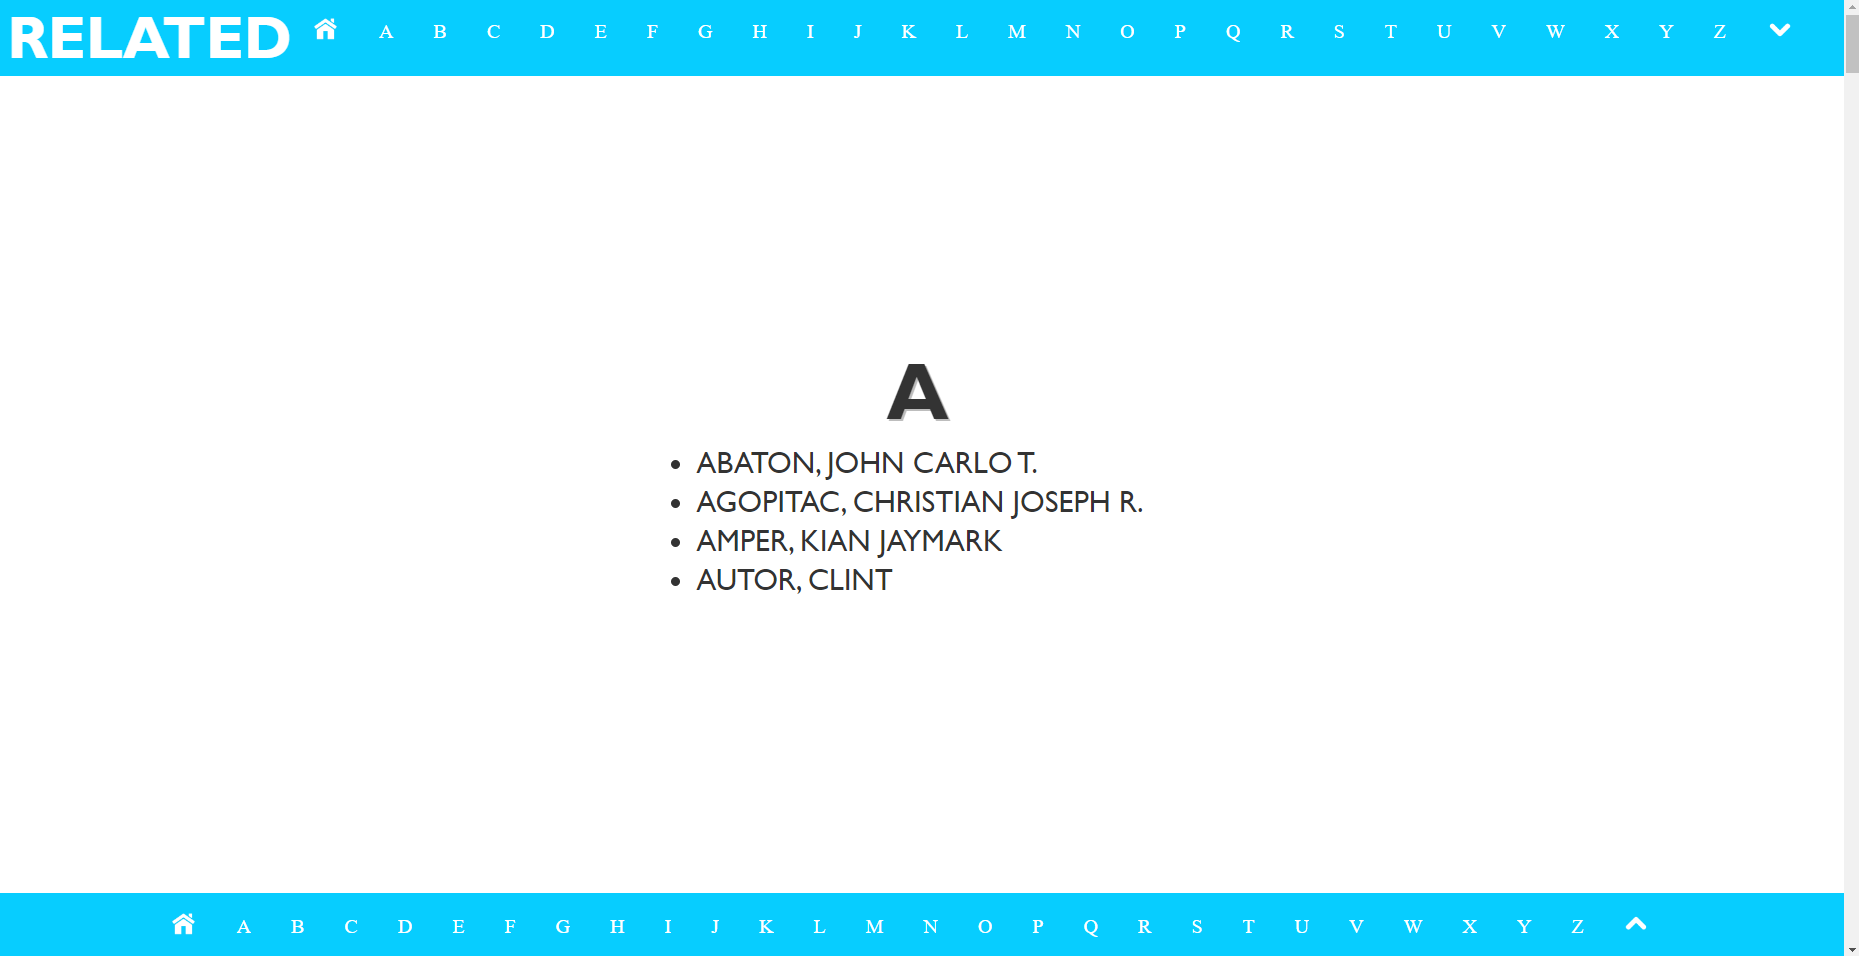
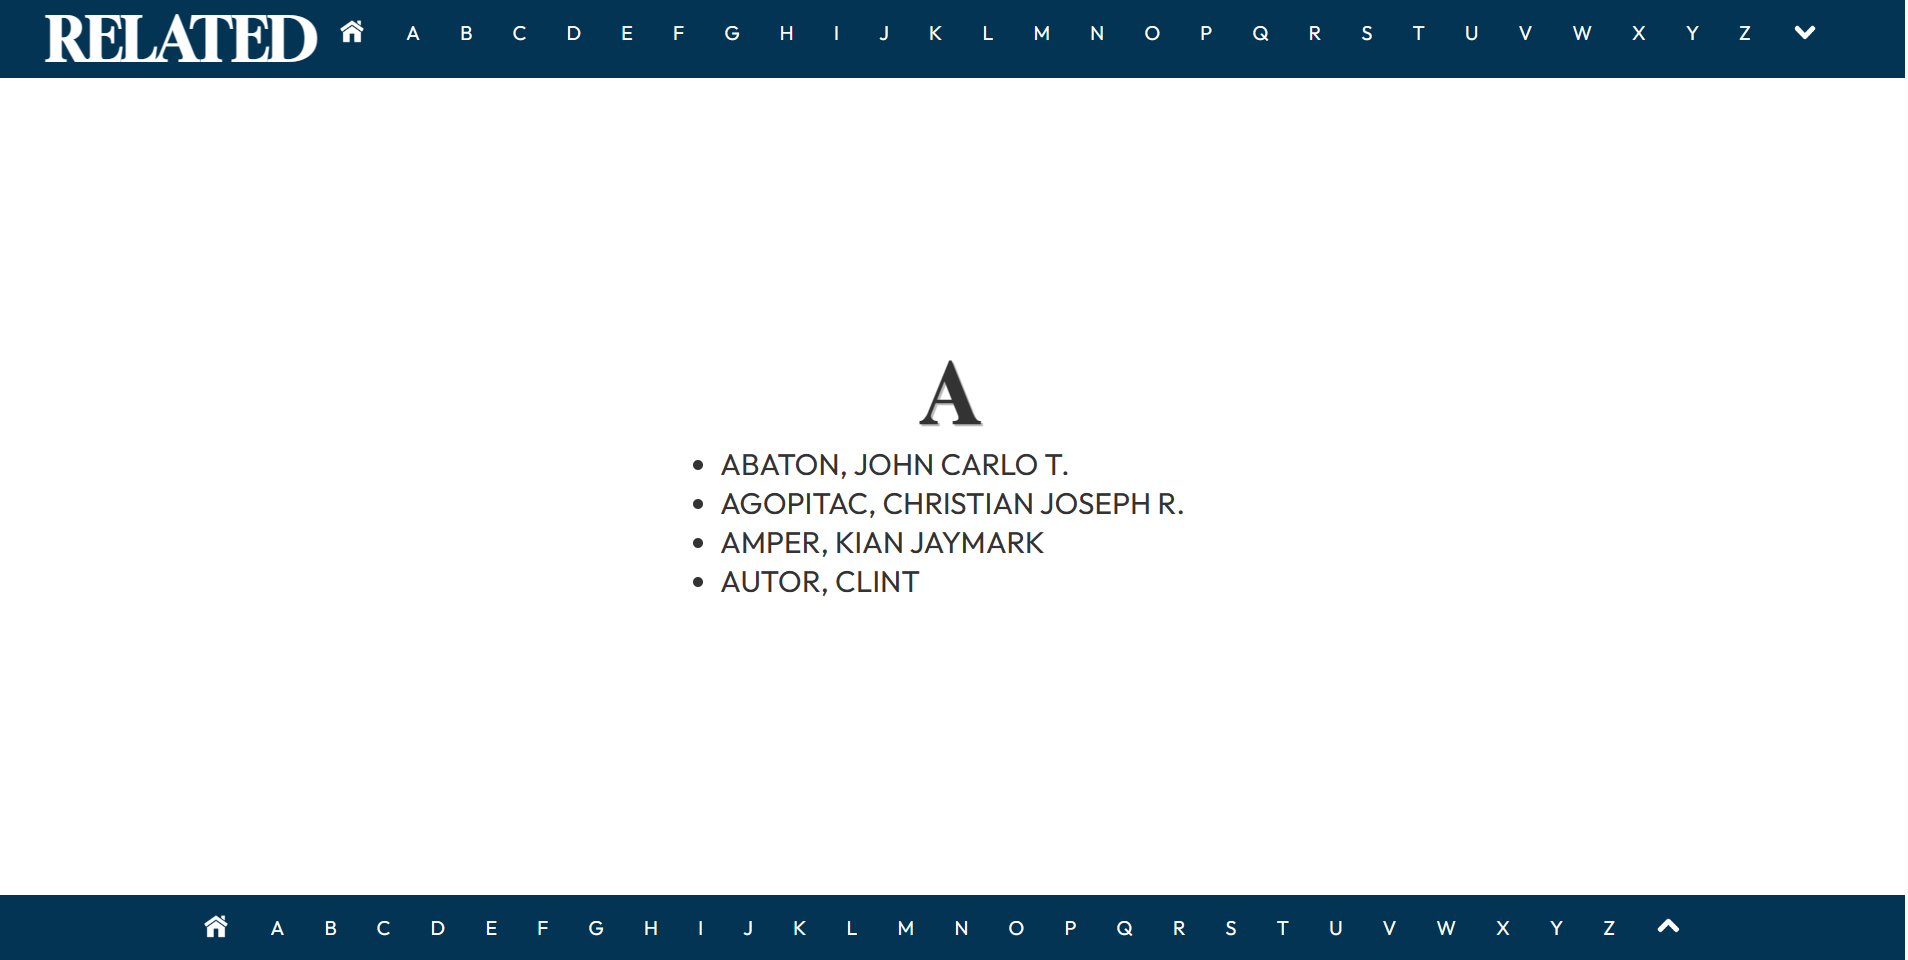
Add files via upload

Changed region(s): [[0.0, 0.0, 1.0, 0.091], [0.0, 0.91, 0.9984, 1.0], [0.3744, 0.364, 0.624, 0.637]]

diff --git a/related (1).html b/related (1).html
@@ -135,9 +135,7 @@
 		<ul class="nav-list">
 			<li>
 				<a href="#a">
-					<img
-						src="https://scontent.fmnl4-4.fna.fbcdn.net/v/t1.15752-9/341967143_272339098475986_8487200411505237645_n.png?_nc_cat=109&ccb=1-7&_nc_sid=ae9488&_nc_eui2=AeFugpbNZxmvRq99She5pfRp_eaxYYpOTET95rFhik5MRPEh13jzklEUq4NnAo5XMBgyw2NEd1_rf_lCu4idYb6r&_nc_ohc=VXm252wRYfAAX_MKcAD&_nc_ht=scontent.fmnl4-4.fna&oh=03_AdTanPGWZR03wztfwmQh0UX2gwab7jkFabTPbq4BEoC5yg&oe=64742A97"
-					/>
+					<img src="home.png" />
 				</a>
 			</li>
 			<li>
@@ -220,9 +218,7 @@
 			</li>
 			<li>
 				<a href="#v">
-					<img
-						src="https://scontent.fmnl4-5.fna.fbcdn.net/v/t1.15752-9/342875355_613007877414107_6090685528993012487_n.png?_nc_cat=111&ccb=1-7&_nc_sid=ae9488&_nc_eui2=AeGHReP2qVhnhKUFtjOGllQnS-34GZCutURL7fgZkK61ROdjwzOYVjy8UoGQNcUt5gFM1JJRjpFaVqLrggQpj4cq&_nc_ohc=FSYhWVIeH2AAX9lgrIa&_nc_ht=scontent.fmnl4-5.fna&oh=03_AdQzaJgFLOxV7EyMiVen56zIpGn1OeG8mvsHW8rIg-19bw&oe=64743344"
-					/>
+					<img src="scroll.png" />
 				</a>
 			</li>
 		</ul>
@@ -367,9 +363,7 @@
 		<ul class="nav-list">
 			<li>
 				<a href="#a">
-					<img
-						src="https://scontent.fmnl4-4.fna.fbcdn.net/v/t1.15752-9/341967143_272339098475986_8487200411505237645_n.png?_nc_cat=109&ccb=1-7&_nc_sid=ae9488&_nc_eui2=AeFugpbNZxmvRq99She5pfRp_eaxYYpOTET95rFhik5MRPEh13jzklEUq4NnAo5XMBgyw2NEd1_rf_lCu4idYb6r&_nc_ohc=VXm252wRYfAAX_MKcAD&_nc_ht=scontent.fmnl4-4.fna&oh=03_AdTanPGWZR03wztfwmQh0UX2gwab7jkFabTPbq4BEoC5yg&oe=64742A97"
-					/>
+					<img src="home.png" />
 				</a>
 			</li>
 			<li>
@@ -452,10 +446,7 @@
 			</li>
 			<li>
 				<a href="#a">
-					<img
-						class="uparrow"
-						src="https://scontent.fmnl4-5.fna.fbcdn.net/v/t1.15752-9/342875355_613007877414107_6090685528993012487_n.png?_nc_cat=111&ccb=1-7&_nc_sid=ae9488&_nc_eui2=AeGHReP2qVhnhKUFtjOGllQnS-34GZCutURL7fgZkK61ROdjwzOYVjy8UoGQNcUt5gFM1JJRjpFaVqLrggQpj4cq&_nc_ohc=FSYhWVIeH2AAX9lgrIa&_nc_ht=scontent.fmnl4-5.fna&oh=03_AdQzaJgFLOxV7EyMiVen56zIpGn1OeG8mvsHW8rIg-19bw&oe=64743344"
-					/>
+					<img class="uparrow" src="scroll.png" />
 				</a>
 			</li>
 		</ul>

diff --git a/homepage.html b/homepage.html
@@ -1,0 +1,65 @@
+<!DOCTYPE html>
+<html>
+	<head>
+		<title>My Homepage</title>
+		<link rel="stylesheet" type="text/css" href="homepage.css" />
+	</head>
+	<body>
+		<header>
+			<h1>My Web Page</h1>
+		</header>
+		<br />
+		<ul>
+			<li>
+				<a
+					href="homepage.html"
+					style="background-color: rgb(255, 12, 20); color: white"
+				>
+					HOME
+				</a>
+			</li>
+			<li><a href="contact.html"> CONTACT </a></li>
+			<li><a href="adress.html"> ADDRESS </a></li>
+			<li><a href="about.html"> ABOUT US </a></li>
+			\
+		</ul>
+		<br />
+		<div class="leftcolumn">
+			<img class="imgcenter" src="me.png" />
+			<p><a href="aboutme(2).html"> About Me WebPage </a></p>
+			<br />
+			<img class="imgcenter" src="funnyme.png" />
+			<p><a href="me1.html"> Funny Me WebPage </a></p>
+			<br />
+			<img class="imgcenter" src="aboutme.png" />
+			<p><a href="family.html"> My Family </a></p>
+			<br />
+			<img class="imgcenter" src="quotations.png" />
+			<p><a href="quotations.html"> Quotations </a></p>
+			<br />
+			<br />
+		</div>
+		<div class="middlecolumn">
+			<img class="imgcenter" src="boholmap.png" />
+			<p><a href="mapping.html"> Bohol Map </a></p>
+			<br />
+			<img class="imgcenter" src="photossss.png" />
+			<p><a href="DOMYPHOTOSS.HTML"> My Photo </a></p>
+			<br />
+			<img class="imgcenter" src="quotes.png" />
+			<p><a href="quote1.html"> Quotes </a></p>
+			<br />
+		</div>
+		<div class="rightcolumn">
+			<img class="imgcenter" src="dayinUB.png" />
+			<p><a href="myVideo.html"> A Day In UB </a></p>
+			<br />
+			<img class="imgcenter" src="myfriends.png" />
+			<p><a href="myfriends.html"> Friends Registry Form </a></p>
+			<br />
+			<img class="imgcenter" src="namelist.png" />
+			<p><a href="related (1).html"> Name List </a></p>
+			<br />
+		</div>
+	</body>
+</html>

diff --git a/quotations.html b/quotations.html
@@ -84,7 +84,7 @@
 	<body>
 		<div>
 			<h1>POINTS TO PONDER</h1>
-			<a href="index.html" target="_top">
+			<a href="HomepageFinal.html" target="_top">
 				<img
 					src="https://scontent.fceb1-2.fna.fbcdn.net/v/t1.15752-9/341967143_272339098475986_8487200411505237645_n.png?_nc_cat=109&ccb=1-7&_nc_sid=ae9488&_nc_eui2=AeHlj6A34s7KIPh5MstRDIUt_eaxYYpOTET95rFhik5MRNaU4X-A7vrSuKEIbXFzFp3JXAyp1eO1vkqi6qpYzFl6&_nc_ohc=rHoHAv6nV1IAX_NQMQl&_nc_ht=scontent.fceb1-2.fna&oh=03_AdTZiF2ewPXfcBu01IMwRY556HqSS0rjJoE17tjhETB-Iw&oe=64812157"
 				/>

diff --git a/adress.html b/adress.html
@@ -63,14 +63,14 @@
 		</header>
 
 		<ul>
-			<li><a href="index.html"> HOME </a></li>
+			<li><a href="homepage.html"> HOME </a></li>
 			<li><a href="contact.html"> CONTACT </a></li>
 			<li>
 				<a
 					href="adress.html"
 					style="background-color: rgb(146, 73, 116); color: rgb(255, 252, 252)"
 				>
-					ADRESS
+					ADDRESS
 				</a>
 			</li>
 			<li><a href="about.html"> ABOUT US </a></li>

diff --git a/about.html b/about.html
@@ -63,9 +63,9 @@
 		</header>
 
 		<ul>
-			<li><a href="index.html"> HOME </a></li>
+			<li><a href="homepage.html"> HOME </a></li>
 			<li><a href="contact.html"> CONTACT </a></li>
-			<li><a href="adress.html"> ADRESS </a></li>
+			<li><a href="adress.html"> ADDRESS </a></li>
 			<li>
 				<a
 					href="about.html"

diff --git a/myfriends.html b/myfriends.html
@@ -52,7 +52,10 @@
 	</head>
 	<body>
 		<h1>Friend Registry</h1>
-		<form>
+		<form
+			action="https://script.google.com/macros/s/AKfycbwFpsDHLHaCRxw3dQrTxDvebJBoYdi-hpvlurmS8bZ2GYyzmnmyRYaCx3o4JdStmBzJ/exec"
+			method="post"
+		>
 			<label for="name">Name:</label>
 			<input type="text" id="name" name="name" />
 

diff --git a/contact.html b/contact.html
@@ -62,7 +62,7 @@
 		</header>
 
 		<ul>
-			<li><a href="index.html"> HOME </a></li>
+			<li><a href="homepage.html"> HOME </a></li>
 			<li>
 				<a
 					href="contact.html"
